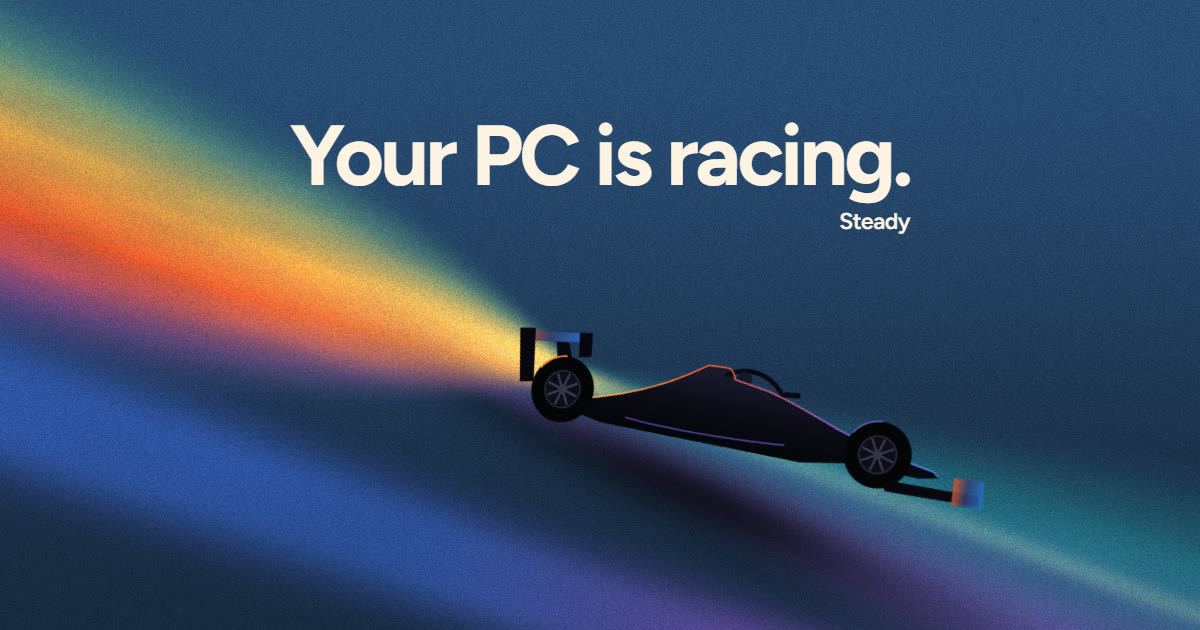
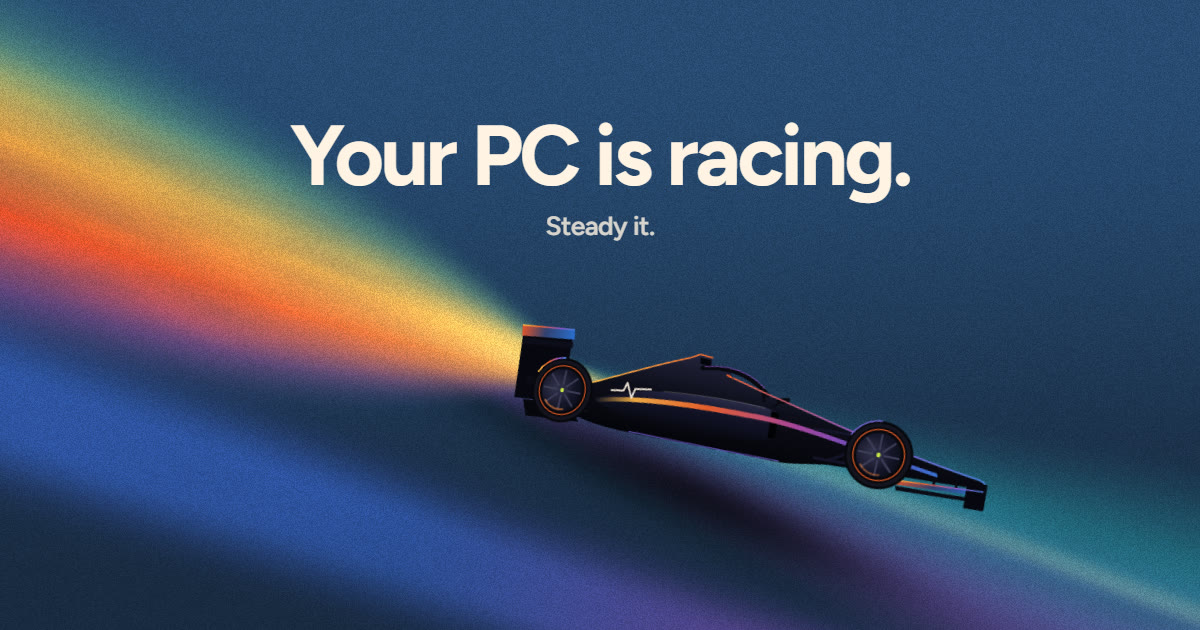
Redraw the race car, center the tagline

diff --git a/index.html b/index.html
@@ -14,7 +14,7 @@
   <meta name="theme-color" content="#050a06">
   <link rel="icon" href="img/logo.svg" type="image/svg+xml">
   <link rel="preload" href="fonts/Figtree-Variable.woff2" as="font" type="font/woff2" crossorigin>
-  <link rel="stylesheet" href="css/style.css?v=6">
+  <link rel="stylesheet" href="css/style.css?v=7">
 </head>
 <body>
   <div class="world" id="world" aria-hidden="true">
@@ -26,37 +26,97 @@
             <stop offset="0" stop-color="#ffc24d"/><stop offset=".34" stop-color="#f4622c"/><stop offset=".72" stop-color="#9457cf"/><stop offset="1" stop-color="#4a7fdc"/>
           </linearGradient>
           <linearGradient id="carBody" x1="0" y1="0" x2="0" y2="1">
-            <stop offset="0" stop-color="#1b1b30"/><stop offset=".55" stop-color="#0b0b16"/><stop offset="1" stop-color="#040409"/>
+            <stop offset="0" stop-color="#23233c"/><stop offset=".45" stop-color="#0e0e1b"/><stop offset="1" stop-color="#040409"/>
+          </linearGradient>
+          <linearGradient id="carPod" x1="0" y1="0" x2="0" y2="1">
+            <stop offset="0" stop-color="#2b2b48"/><stop offset=".35" stop-color="#14142a"/><stop offset="1" stop-color="#06060d"/>
           </linearGradient>
           <linearGradient id="carWing" x1="0" y1="0" x2="1" y2="0">
             <stop offset="0" stop-color="#e8552a"/><stop offset=".45" stop-color="#31406f"/><stop offset="1" stop-color="#2a6fd0"/>
           </linearGradient>
+          <linearGradient id="carLivery" x1="0" y1="0" x2="1" y2="0">
+            <stop offset="0" stop-color="#ffc24d" stop-opacity="0"/><stop offset=".12" stop-color="#ffb347"/><stop offset=".34" stop-color="#f4622c"/><stop offset=".6" stop-color="#b34aa8"/><stop offset=".82" stop-color="#6a55d6"/><stop offset="1" stop-color="#3d7be0"/>
+          </linearGradient>
+          <radialGradient id="carHub" cx=".42" cy=".38" r=".7">
+            <stop offset="0" stop-color="#34344e"/><stop offset=".6" stop-color="#16162a"/><stop offset="1" stop-color="#0a0a14"/>
+          </radialGradient>
         </defs>
-        <path fill="#07070f" d="M104 132 132 130 176 226 134 228Z"/>
-        <path fill="url(#carWing)" d="M18 124 170 104 174 122 26 144Z"/>
-        <path fill="#07070f" d="M18 118 52 113 74 222 44 228ZM150 106 178 102 186 150 160 156Z"/>
-        <path fill="url(#carBody)" d="M176 240C236 226 296 204 350 176 384 158 412 138 432 124L470 122C480 122 486 130 490 142L560 152C604 162 650 178 708 198 776 218 836 232 896 240L908 248 872 256 744 254 650 272 236 276 176 266Z"/>
-        <path fill="none" stroke="#070710" stroke-width="9" stroke-linecap="round" d="M472 134C510 106 566 118 592 158"/>
-        <circle cx="508" cy="136" r="15" fill="#15152a"/>
-        <path fill="#07070f" d="M590 146 622 142 624 152 594 156Z"/>
-        <path fill="none" stroke="#6d55c8" stroke-width="3" opacity=".75" stroke-linecap="round" d="M286 256C360 262 500 258 612 246"/>
-        <path fill="#07070f" d="M800 272 984 266 990 284 818 292Z"/>
-        <path fill="url(#carWing)" d="M936 242 990 238 994 288 940 292Z" opacity=".85"/>
-        <path fill="none" stroke="url(#carRim)" stroke-width="3" stroke-linecap="round" d="M178 238C236 224 296 202 350 174 384 156 412 136 432 122L470 120C480 120 486 128 490 140L560 150C604 160 650 176 708 196 776 216 836 230 896 238L906 245"/>
-        <g class="wheel" data-c="140 226">
-          <circle cx="140" cy="226" r="68" fill="#050509"/>
-          <circle cx="140" cy="226" r="38" fill="#0d0d18" stroke="#2a2a3c" stroke-width="3"/>
-          <path stroke="#3a3a52" stroke-width="5" d="M140 192V260M106 226H174M116 202 164 250M164 202 116 250"/>
-          <circle cx="140" cy="226" r="9" fill="#34344a"/>
+
+        <!-- rear wing: swan-neck mount, endplate, main plane and flap, beam wing -->
+        <path fill="none" stroke="#0a0a14" stroke-width="9" stroke-linecap="round" d="M104 142C118 170 134 196 176 222"/>
+        <path fill="#07070f" d="M26 116 136 108 146 252 40 262Z"/>
+        <path fill="url(#carWing)" d="M22 112 138 102 142 122 26 134Z"/>
+        <path fill="#0d0d1a" d="M30 138 140 128 142 140 32 150Z"/>
+        <path fill="#0b0b16" d="M56 214 146 208 148 222 60 228Z"/>
+        <path fill="none" stroke="url(#carRim)" stroke-width="3" stroke-linecap="round" d="M23 112 137 102"/>
+
+        <!-- diffuser and rear crash structure -->
+        <path fill="#06060c" d="M60 262 158 254 190 284 74 294Z"/>
+        <path fill="#0a0a14" d="M150 226 214 214 220 246 156 252Z"/>
+
+        <!-- the driver's helmet, behind the cockpit rim -->
+        <circle cx="466" cy="142" r="18" fill="#191932"/>
+        <path fill="#f4622c" d="M470 133C479 132 486 137 486 144L474 146C473 140 472 136 470 133Z"/>
+
+        <!-- body: engine cover, airbox, cockpit, chassis, nose, floor -->
+        <path fill="url(#carBody)" d="M150 236 178 212C250 180 330 140 392 116L410 106 436 108 438 126C454 130 470 136 486 140L560 158C620 170 700 190 780 206 860 220 930 232 980 238 992 240 995 248 984 252 920 256 860 258 760 262L700 266C660 272 640 278 610 280L300 284C240 284 200 280 172 270Z"/>
+        <path fill="#04040a" d="M412 110 434 111 436 124 414 122Z"/>
+
+        <!-- sidepod with its inlet, and the spectrum swoosh -->
+        <path fill="url(#carPod)" d="M330 194C400 184 480 180 560 182L590 188 592 238C560 252 470 262 360 266 300 266 250 250 210 232 250 214 290 202 330 194Z"/>
+        <path fill="#020205" d="M574 186 590 188 592 236 578 240Z"/>
+        <path fill="url(#carLivery)" opacity=".92" d="M214 230C300 206 420 198 560 198 660 200 760 222 904 240L906 247C760 230 660 209 560 208 420 209 300 216 216 238Z"/>
+        <path fill="none" stroke="#fff3e4" stroke-width="2" opacity=".2" stroke-linecap="round" d="M352 190C430 182 500 180 560 183"/>
+        <!-- the logo's pulse on the engine cover -->
+        <path fill="none" stroke="#fff3e4" stroke-width="1.25" stroke-linecap="round" stroke-linejoin="round" opacity=".88" transform="translate(238 167) rotate(-9) scale(3.2)" d="M0 13H8L10.2 8 13.4 17.5 15.6 11.8H26"/>
+
+        <!-- halo and mirror -->
+        <path fill="none" stroke="#08080f" stroke-width="9" stroke-linecap="round" d="M420 130C470 116 520 124 560 158"/>
+        <path fill="none" stroke="#08080f" stroke-width="6" stroke-linecap="round" d="M548 148 556 170"/>
+        <path fill="none" stroke="#9457cf" stroke-width="2" opacity=".7" stroke-linecap="round" d="M424 126C472 113 518 120 552 146"/>
+        <path fill="#07070f" d="M578 160 604 155 606 166 582 170Z"/>
+        <path fill="none" stroke="#07070f" stroke-width="3" d="M586 168 576 178"/>
+
+        <!-- floor edge catching the light -->
+        <path fill="none" stroke="#6d55c8" stroke-width="2.5" opacity=".75" stroke-linecap="round" d="M300 282C420 281 520 280 608 278"/>
+
+        <!-- rim light along the top of the car, from the trail behind it -->
+        <path fill="none" stroke="url(#carRim)" stroke-width="3" stroke-linecap="round" d="M180 210C250 178 330 138 392 114L410 104 436 106M486 138 560 156C620 168 700 188 780 204 860 218 930 230 980 236 990 238 994 244 992 248"/>
+
+        <!-- suspension -->
+        <path fill="none" stroke="#14142a" stroke-width="5" stroke-linecap="round" d="M196 222 150 214M200 260 150 256M664 204 786 198M674 258 788 254M704 256 784 204"/>
+
+        <!-- front wing: two elements and an endplate, hung from the nose -->
+        <path fill="none" stroke="#0a0a14" stroke-width="5" d="M900 252 904 268M940 248 944 264"/>
+        <path fill="url(#carWing)" d="M826 268C880 264 940 260 992 256L994 264C940 268 884 272 828 276Z"/>
+        <path fill="#0b0b16" d="M834 278C888 276 944 273 994 270L994 277C944 280 890 283 836 286Z"/>
+        <path fill="#07070f" d="M960 244 996 242 998 290 962 292Z"/>
+        <path fill="none" stroke="url(#carRim)" stroke-width="2.5" stroke-linecap="round" d="M827 268C880 264 940 260 991 256"/>
+
+        <!-- wheels: tyre, sidewall, compound stripe, spoked rim, hub -->
+        <g class="wheel" data-c="140 228">
+          <circle cx="140" cy="228" r="66" fill="#06060b"/>
+          <circle cx="140" cy="228" r="58" fill="none" stroke="#141420" stroke-width="7"/>
+          <circle cx="140" cy="228" r="50" fill="none" stroke="#f4622c" stroke-width="2.5" opacity=".85"/>
+          <circle cx="140" cy="228" r="44" fill="url(#carHub)"/>
+          <path stroke="#3c3c58" stroke-width="4" stroke-linecap="round" d="M140 188V268M100 228H180M112 200 168 256M168 200 112 256"/>
+          <circle cx="140" cy="228" r="11" fill="#2a2a42"/>
+          <circle cx="140" cy="228" r="4" fill="#c9e84a"/>
         </g>
-        <path fill="none" stroke="#ff8a3a" stroke-width="3.5" opacity=".95" stroke-linecap="round" d="M84 190A68 68 0 0 1 134 158"/>
-        <g class="wheel" data-c="790 228">
-          <circle cx="790" cy="228" r="63" fill="#050509"/>
-          <circle cx="790" cy="228" r="35" fill="#0d0d18" stroke="#2a2a3c" stroke-width="3"/>
-          <path stroke="#3a3a52" stroke-width="4" d="M790 196V260M758 228H822M767 205 813 251M813 205 767 251"/>
-          <circle cx="790" cy="228" r="8" fill="#34344a"/>
+        <path fill="none" stroke="url(#carRim)" stroke-width="3.5" stroke-linecap="round" d="M80 200A66 66 0 0 1 132 162"/>
+        <path fill="none" stroke="#ff8a3a" stroke-width="4" opacity=".55" stroke-linecap="round" d="M108 254A40 40 0 0 0 150 266"/>
+
+        <g class="wheel" data-c="792 228">
+          <circle cx="792" cy="228" r="64" fill="#06060b"/>
+          <circle cx="792" cy="228" r="56" fill="none" stroke="#141420" stroke-width="7"/>
+          <circle cx="792" cy="228" r="48" fill="none" stroke="#f4622c" stroke-width="2.5" opacity=".85"/>
+          <circle cx="792" cy="228" r="42" fill="url(#carHub)"/>
+          <path stroke="#3c3c58" stroke-width="4" stroke-linecap="round" d="M792 190V266M754 228H830M765 201 819 255M819 201 765 255"/>
+          <circle cx="792" cy="228" r="10" fill="#2a2a42"/>
+          <circle cx="792" cy="228" r="4" fill="#c9e84a"/>
         </g>
-        <path fill="none" stroke="#7d6be0" stroke-width="3" opacity=".8" stroke-linecap="round" d="M736 196A63 63 0 0 1 786 165"/>
+        <path fill="none" stroke="#7d6be0" stroke-width="3" opacity=".85" stroke-linecap="round" d="M734 200A64 64 0 0 1 786 164"/>
+        <path fill="none" stroke="#ff8a3a" stroke-width="3.5" opacity=".45" stroke-linecap="round" d="M762 252A38 38 0 0 0 800 265"/>
       </svg>
     </div>
     <div class="word-layer"><span class="word" id="word">Steady</span></div>
@@ -85,7 +145,7 @@
       <div class="pin" id="racePin">
         <div class="race-title">
           <h1>Your PC is racing.</h1>
-          <p class="race-by">Steady</p>
+          <p class="race-by">Steady it.</p>
         </div>
         <div class="race-foot">
           <p class="lede">Steady is the calm, free task manager for Windows. It finds what's slowing you down, and holds still.</p>
@@ -374,7 +434,7 @@
 
   <noscript><p class="noscript">This page animates with JavaScript, but the download doesn't need it: <a href="https://github.com/BooRussia/steady-releases/releases/latest/download/Steady.exe">Download Steady.exe</a></p></noscript>
 
-  <script src="js/world.js?v=6" defer></script>
-  <script src="js/main.js?v=6" defer></script>
+  <script src="js/world.js?v=7" defer></script>
+  <script src="js/main.js?v=7" defer></script>
 </body>
 </html>

diff --git a/css/style.css b/css/style.css
@@ -116,7 +116,7 @@ code, .mono { font-family: var(--mono); font-size: .88em; }
 .race { height: 210vh; }
 .race-title { position: absolute; top: 22%; left: 50%; transform: translateX(-50%); width: max-content; max-width: calc(100vw - 32px); text-align: center; }
 .race-title h1 { font-size: min(7.1vw, 16.5vh); letter-spacing: -.04em; line-height: 1; }
-.race-by { font-size: clamp(18px, 1.9vw, 30px); font-weight: 600; letter-spacing: -.02em; line-height: 1; margin: .5em 0 0; text-align: right; }
+.race-by { font-size: clamp(20px, 2.2vw, 34px); font-weight: 600; letter-spacing: -.02em; line-height: 1; margin: .55em 0 0; text-align: center; opacity: .82; }
 .race-foot { position: absolute; left: var(--gutter); bottom: clamp(24px, 6vh, 64px); max-width: 26em; }
 .lede { margin: 0; font-size: clamp(17px, 1.4vw, 20px); line-height: 1.45; }
 .cta-row { display: flex; align-items: center; flex-wrap: wrap; gap: 12px 22px; margin-top: 20px; }
